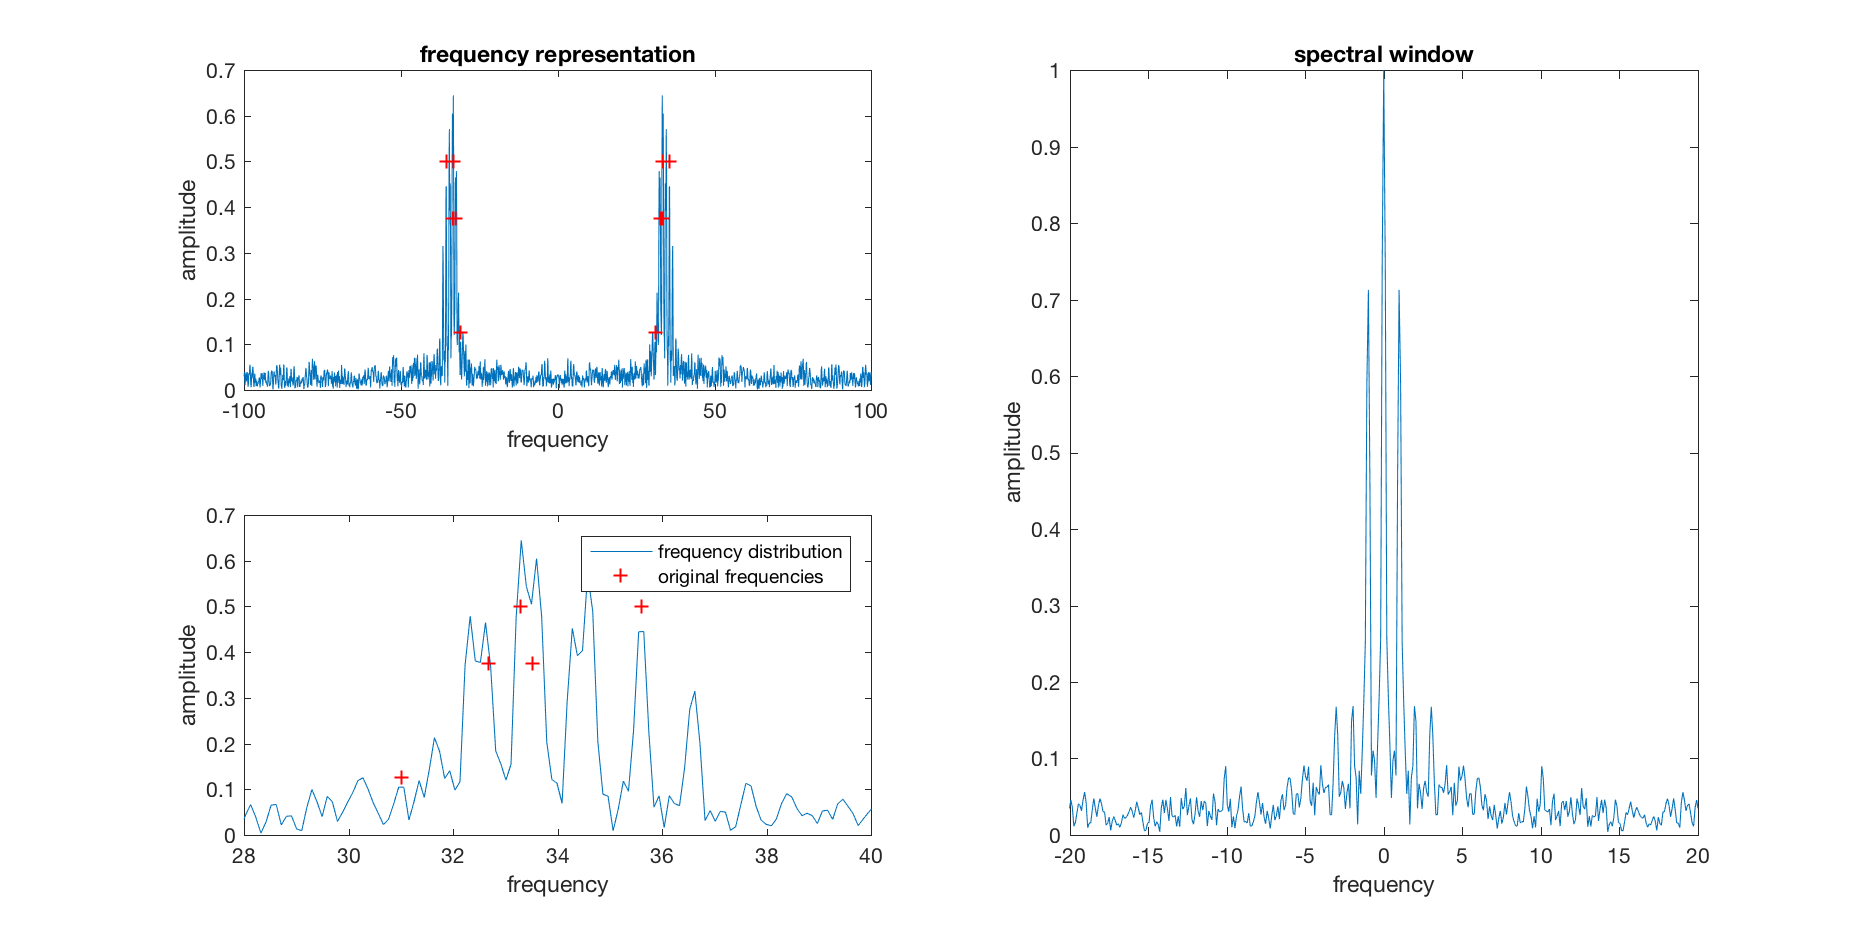
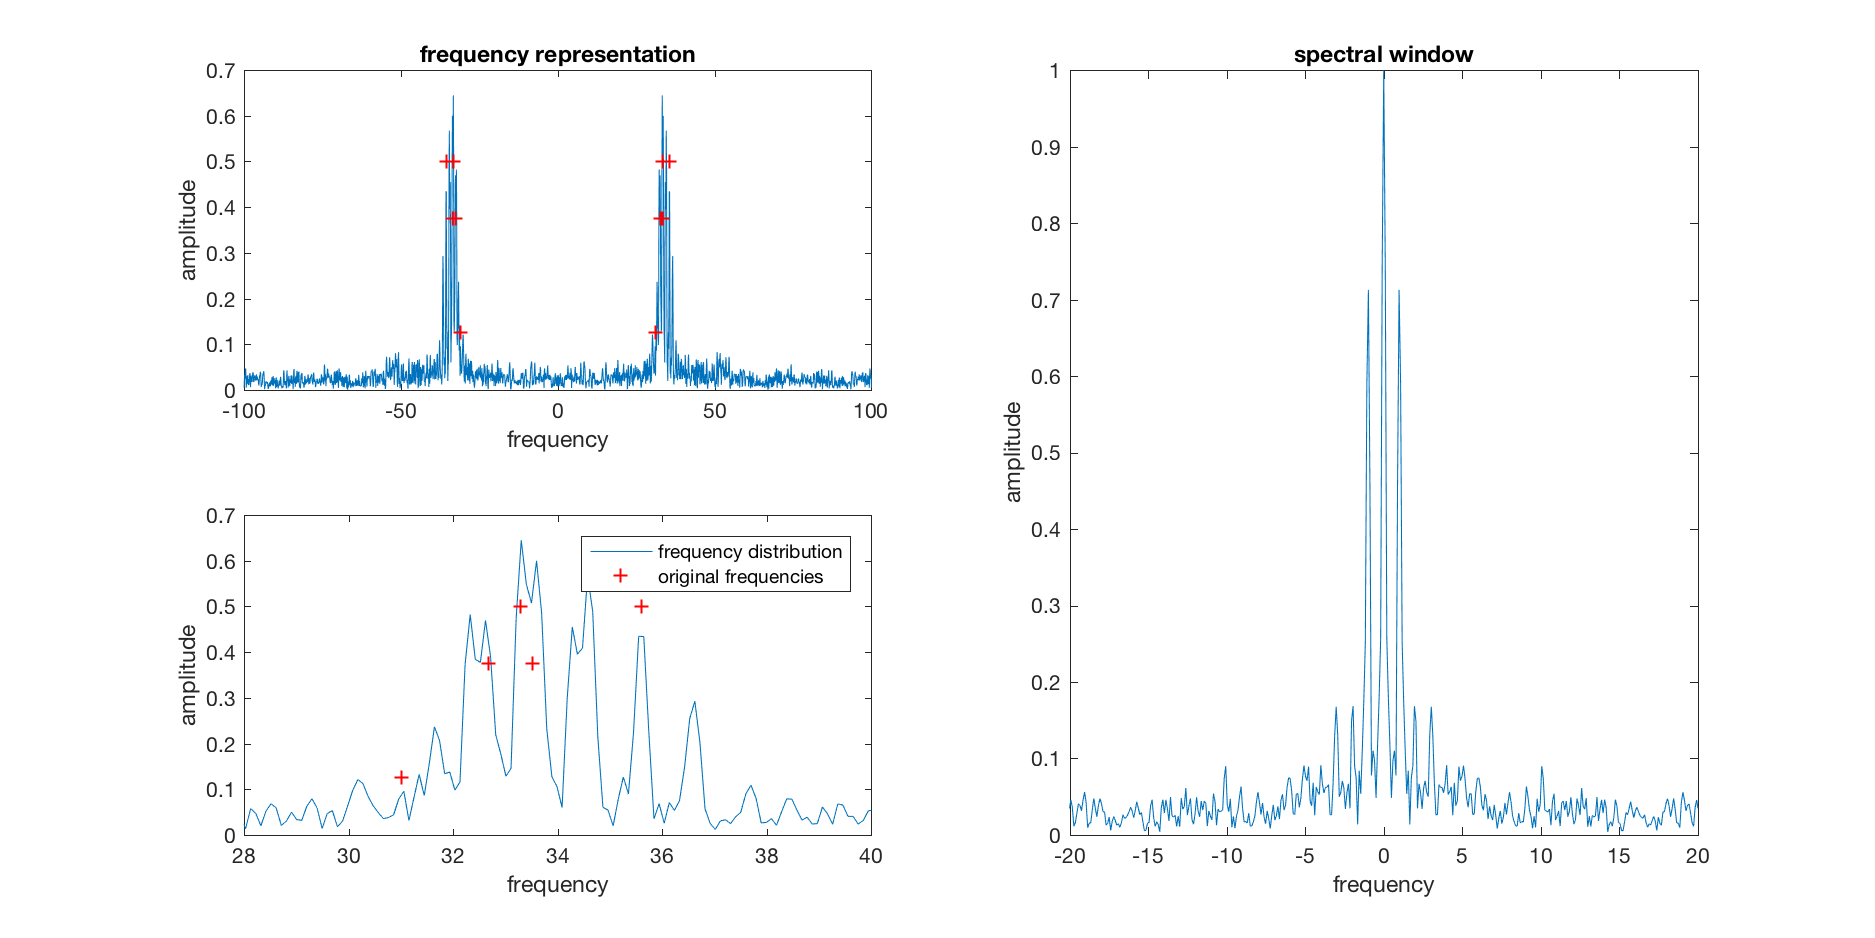
improved matlab code. now saves amplitude and frequency data to img_data.txt for tasks 3.1 to 4.1

diff --git a/code/Lab2.m b/code/Lab2.m
@@ -92,12 +92,15 @@ while T > tau
     T = (norm(r_n)^2)/(sigma^2);
 end
 MethodOneIterations = size(Gamma0);
+[MaxMP,MaxIdxMP] = findpeaks(abs(a),'threshold',0.13);
 
 figure
 subplot(2,1,1)
 plot(freq,abs(a));
 hold on;
 plot(f_th,A_th/2,'r+')
+hold on;
+plot((freq(MaxIdxMP)),MaxMP,'bo')
 for num=1:length(f_th)
     hold on;
    line([f_th(num) f_th(num)], [0 A_th(num)/2], 'Color','r','LineStyle','--') 
@@ -146,12 +149,15 @@ for ind=1:length(Gamma0)
    a_plot(Gamma0(ind)) = a(ind);
 end
 MethodTwoIterations = size(Gamma0);
+[MaxOMP,MaxIdxOMP] = findpeaks(abs(a_plot),'threshold',0.1);
 
 figure
 subplot(2,1,1)
 plot(freq,abs(a_plot));
 hold on;
 plot(f_th,A_th/2,'r+')
+hold on;
+plot((freq(MaxIdxOMP)),MaxOMP,'bo')
 for num=1:length(f_th)
     hold on;
    line([f_th(num) f_th(num)], [0 A_th(num)/2], 'Color','r','LineStyle','--') 
@@ -205,12 +211,15 @@ for ind=1:length(Gamma0)
    a_plot(Gamma0(ind)) = a_vec(ind);
 end
 MethodThrIterations = size(Gamma0);
+[MaxOLS,MaxIdxOLS] = findpeaks(abs(a_plot),'threshold',0.1);
 
 figure
 subplot(2,1,1)
 plot(freq,abs(a_plot));
 hold on;
 plot(f_th,A_th/2,'r+')
+hold on;
+plot((freq(MaxIdxOLS)),MaxOLS,'bo')
 for num=1:length(f_th)
     hold on;
    line([f_th(num) f_th(num)], [0 A_th(num)/2], 'Color','r','LineStyle','--') 
@@ -238,14 +247,17 @@ n_it_max = 100000;
 
 a1 = min_L2_L1_0(x_n,W,lambda,n_it_max);
 
+[MaxSparse,MaxIdxSparse] = findpeaks(abs(a1),'MinPeakHeight',0.045);
 
 figure
 subplot(2,1,1)
 plot(freq,abs(a1));
 hold on;
 plot(f_th,A_th/2,'r+')
+hold on;
+plot((freq(MaxIdxSparse)),MaxSparse,'bo')
 for num=1:length(f_th)
-    hold on;
+   hold on;
    line([f_th(num) f_th(num)], [0 A_th(num)/2], 'Color','r','LineStyle','--') 
 end
 xlim([28 40])
@@ -260,3 +272,18 @@ suptitle('Sparse representation with convex relaxation');
 set(gcf, 'PaperUnits', 'points');
 set(gcf, 'PaperPosition', [0 0 900 450]);
 saveas(gcf,'../images/convex.png')
+
+% Save detected data to file:
+fileID = fopen('../images/img_data.txt','w');
+fprintf(fileID, 'frequency ; amplitude\n ');
+fprintf(fileID, '# Matching Pursuit, %d iterations\n', length(MethodOneIterations(1)));
+fprintf(fileID, [repmat(' %0.3f ; %0.3f \n', 1, length(MaxIdxMP))] , [ freq(MaxIdxMP).' MaxMP].');
+fprintf(fileID, '# Orthogonal Matching Pursuit, %d iterations\n', length(MethodTwoIterations(2)));
+fprintf(fileID, [repmat(' %0.3f ; %0.3f \n', 1, length(MaxIdxOMP))] , [ freq(MaxIdxOMP).' MaxOMP].');
+fprintf(fileID, '# Orthogonal Least Square, %d iterations\n', length(MethodThrIterations(1)));
+fprintf(fileID, [repmat(' %0.3f ; %0.3f \n', 1, length(MaxIdxOLS))] , [ freq(MaxIdxOLS).' MaxOLS].');
+fprintf(fileID, '# Convex Relaxation\n');
+fprintf(fileID, [repmat(' %0.3f ; %0.3f \n', 1, length(MaxIdxSparse))] , [ freq(MaxIdxSparse).' MaxSparse].');
+
+fclose(fileID);
+
